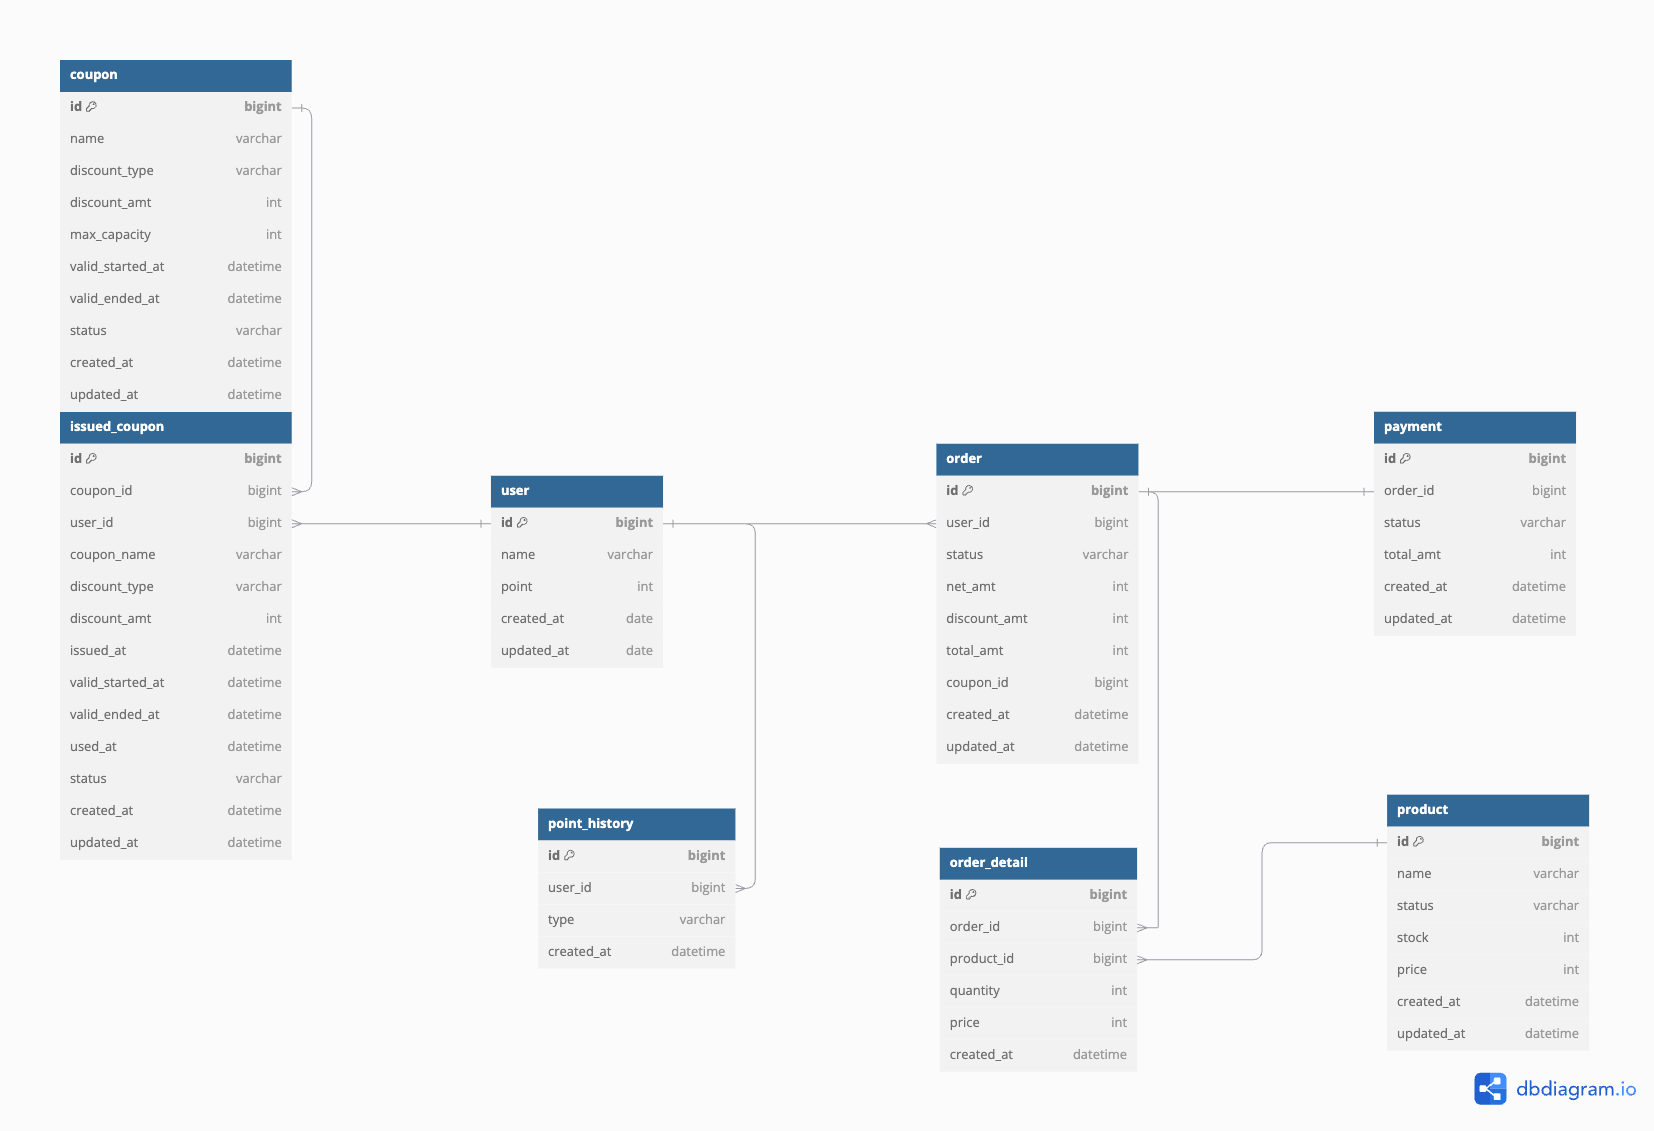
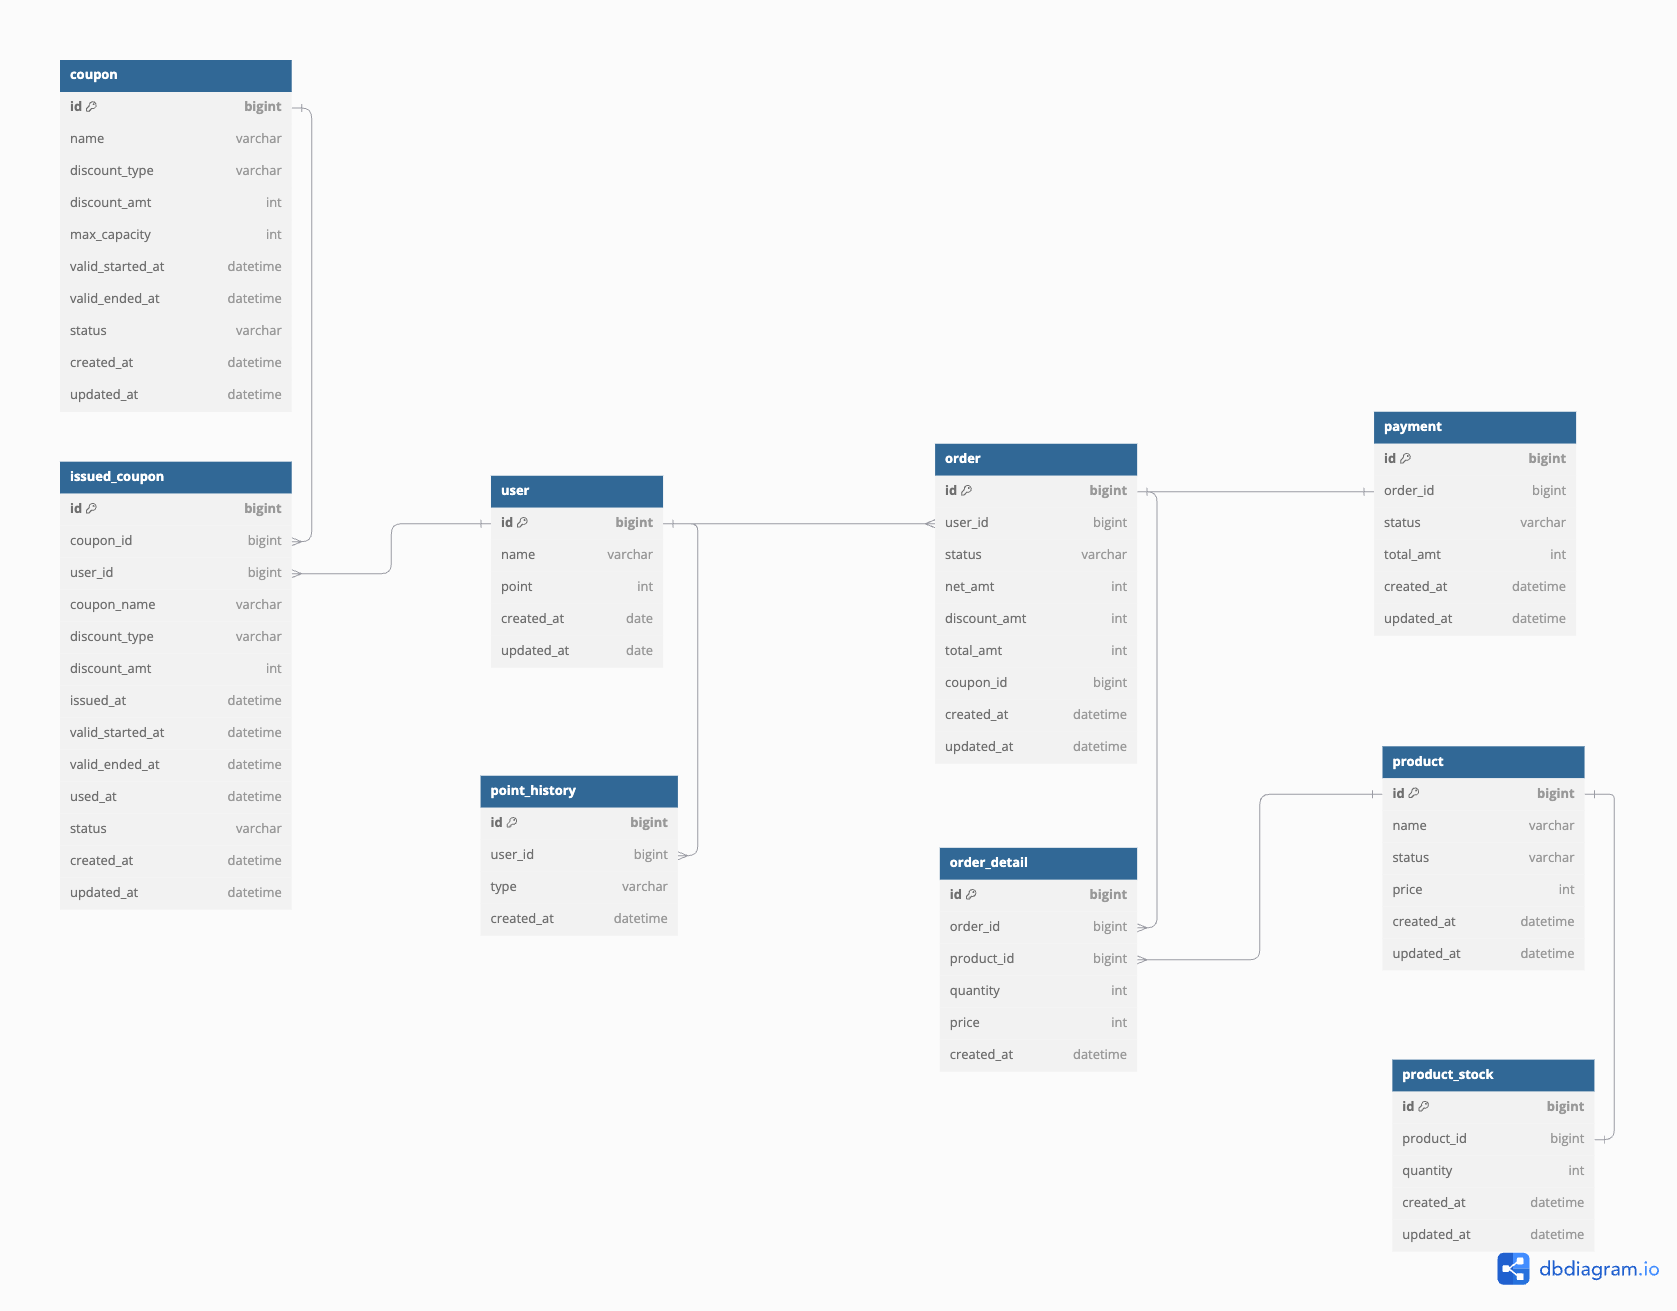
[Docs] ERD 수정
* Product 테이블에서 stock 컬럼 제거하고 ProductStock 테이블 생성

diff --git a/docs/ERD.md b/docs/ERD.md
@@ -69,10 +69,20 @@
 | id            | bigint      | 상품 고유 식별자 (Primary Key)           |
 | name          | varchar     | 상품 이름                             |
 | status        | varchar     | 상품 상태 (SELLING-판매중/STOPPED-판매 종료) |
-| stock         | int         | 상품 재고 수량                          |
 | price         | int         | 상품 가격                             |
 | created_at    | datetime    | 상품 데이터 생성일                        |
 | updated_at    | datetime    | 상품 데이터 수정일                        |
+
+### 테이블명: product_stock 테이블
+상품의 재고 정보를 담고 있는 재고 테이블이다.
+
+| 컬럼명       | 데이터 타입 | 설명                     |
+|--------------|-------------|--------------------------|
+| id           | bigint      | 재고 고유 식별자 (Primary Key) |
+| product_id   | bigint      | 상품 ID                  |
+| quantity     | int         | 재고 수량                |
+| created_at   | datetime    | 재고 데이터 생성일         |
+| updated_at   | datetime    | 재고 데이터 수정일         |
 
 ### 테이블명: order
 주문 정보를 담고 있는 주문 마스터 테이블이다.
@@ -128,4 +138,5 @@
 * order(1) -> payment(1): 하나의 주문은 하나의 결제를 참조한다.
 
 
+* product(1) -> product_stock(1) : 하나의 상품은 하나의 재고 정보를 가진다.
 * product(1) -> order_detail(N): 하나의 상품은 여러 주문 상세에 포함될 수 있다.  
